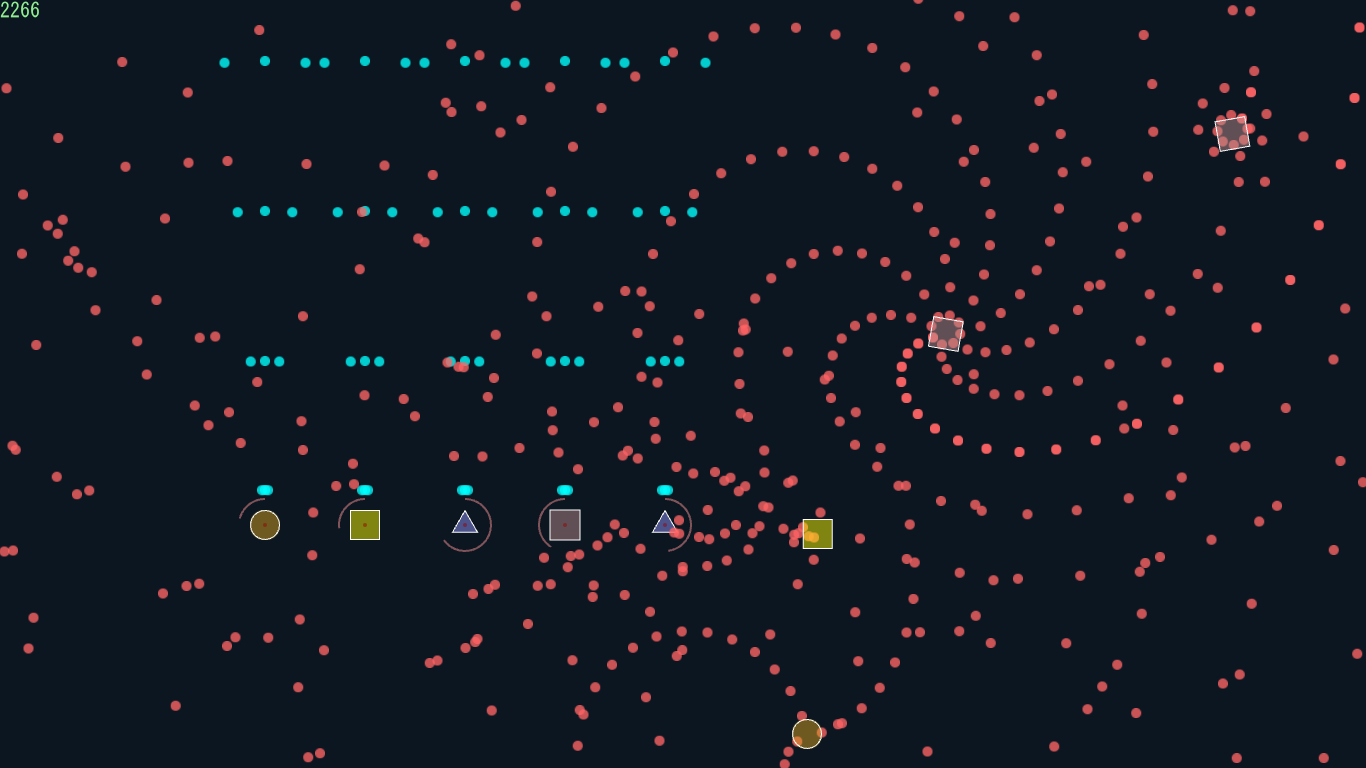
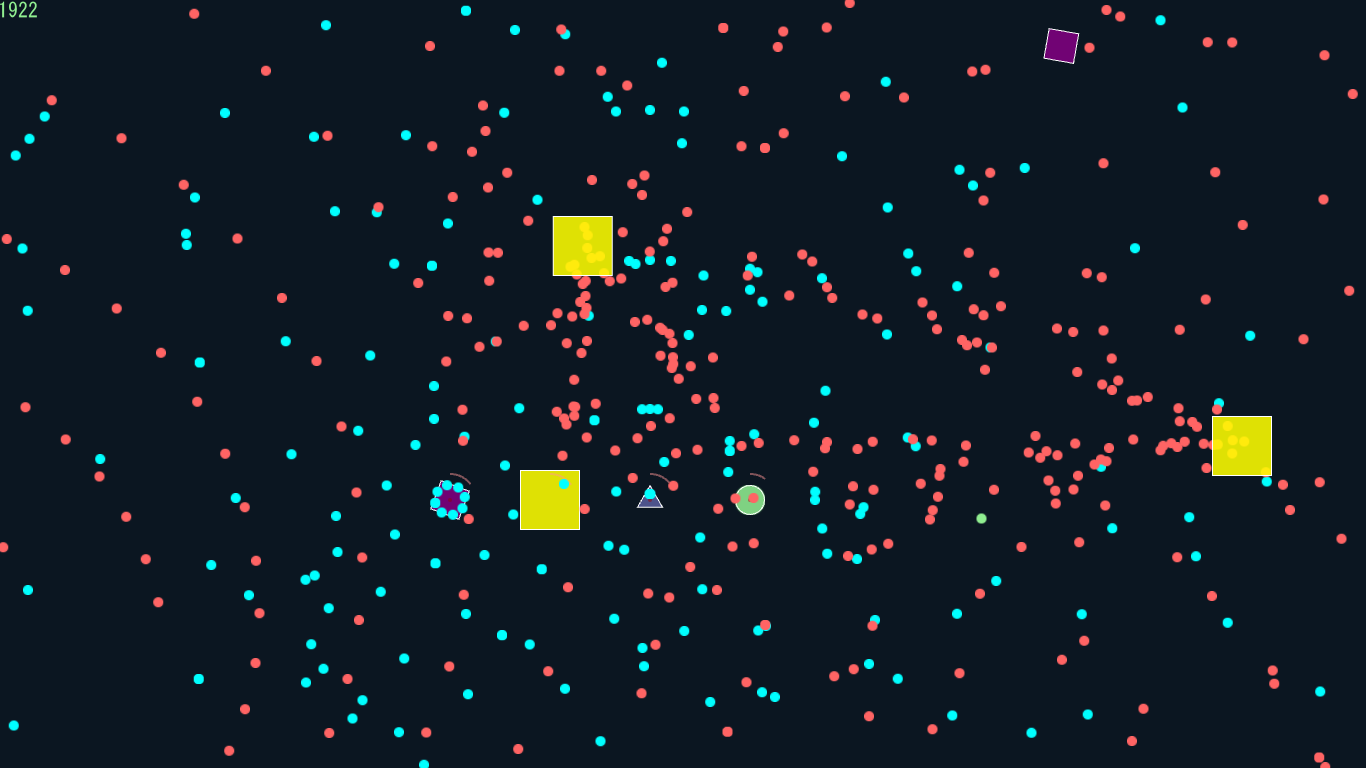
機同士のあたり判定

diff --git a/Union/Player.cpp b/Union/Player.cpp
@@ -2,6 +2,7 @@
 
 #include "Game.h"
 #include "Charactor.h"
+#include "Enemy.h"
 #include "Bullet.h"
 
 namespace{
@@ -67,7 +68,7 @@ void Player::update(Game* game){
 		state = State::NORMAL;
 	}
 
-	checkBulletHit(game);
+	checktHit(game);
 }
 
 void Player::draw(Game* game){
@@ -80,7 +81,8 @@ void Player::draw(Game* game){
 	Circle(pos, 25.0).drawArc(0.0, TwoPi * (static_cast<double>(hp) / HP_MAX), 0.0, 2.0, Color(255, 150, 150, 122));
 }
 
-void Player::checkBulletHit(Game* game){
+void Player::checktHit(Game* game){
+	//Bullet
 	auto bulletManager = game->getBulletManager();
 	for (auto& bullet : *bulletManager){
 		if (fig == Figure::SQUARE &&
@@ -94,6 +96,28 @@ void Player::checkBulletHit(Game* game){
 	}
 	if (hp <= 0){
 		state = State::GAMEOVER;
+	}
+
+	//Enemy
+	if (fig == Figure::SQUARE){
+		auto enemyManager = game->getEnemyManager();
+		for (auto& enemy : *enemyManager){
+			switch (enemy->getFigre()){
+			case Figure::CIRCLE:
+			case Figure::TSQUARE:
+				if (Circle(pos, size).intersects(Circle(enemy->getPos(), enemy->getSize()))){
+					hp -= 50;
+					enemy->kill();
+				}
+				break;
+			case Figure::SQUARE:
+				if (RectF(size * 2).setCenter(pos).intersects(Circle(enemy->getPos(), enemy->getSize()))){
+					hp -= 50;
+					enemy->kill();
+				}
+				break;
+			};
+		}
 	}
 }
 

diff --git a/Union/Player.h b/Union/Player.h
@@ -23,7 +23,7 @@ public:
 
 	void setMember(int num);
 	void setPos(Vec2 pos) { this->pos = pos; }
-	void checkBulletHit(Game* game);
+	void checktHit(Game* game);
 	bool IsStateCATCHER() const{ return state == State::CATCHER; }
 	bool IsSquare() const{ return fig == Figure::SQUARE; }
 private:

diff --git a/README.md b/README.md
@@ -1,11 +1,16 @@
 # Union
-敵を仲間にしていく感じのシューティングゲーム  
+敵を仲間にしていく感じのエンドレスシューティングゲーム  
+自機の弾は青それ以外は当たったらダメージが入る  
+
 
 [@yashihei](https://github.com/yashihei)
 さんの
 [Alone](https://github.com/yashihei/Alone)
-を参考にしながら作成します  
-まだまだ完成ではないけど、とりあえず現状  
+を参考にしながら作成しました  
+  
 
+##操作方法  
+移動:十字キー  
+z:敵を捕獲
 
 ![](ss.png)  
